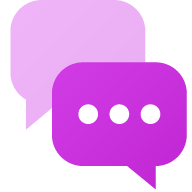
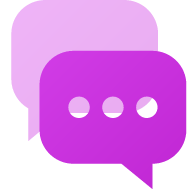
feat(ui): tighten the two IAssistant bubbles

diff --git a/packages/ui/src/family-svg.ts b/packages/ui/src/family-svg.ts
@@ -39,7 +39,7 @@ export const PRODUCT_BADGE_SVG: Readonly<Record<FamilyProduct, string>> = {
     '<svg xmlns="http://www.w3.org/2000/svg" viewBox="0 0 64 64"><svg x="0" y="0" width="64" height="64" viewBox="15 15 34 34"><defs><linearGradient id="g" x1="14" y1="14" x2="50" y2="50" gradientUnits="userSpaceOnUse"><stop offset="0" stop-color="#ffb020"/><stop offset="1" stop-color="#e58309"/></linearGradient></defs><path d="M18.3 34H21.7A2.8 2.8 0 0 1 24.5 36.8V46.2A2.8 2.8 0 0 1 21.7 49H18.3A2.8 2.8 0 0 1 15.5 46.2V36.8A2.8 2.8 0 0 1 18.3 34Z" fill="url(#g)" fill-opacity="0.4" fill-rule="evenodd"/><path d="M30.3 25H33.7A2.8 2.8 0 0 1 36.5 27.8V46.2A2.8 2.8 0 0 1 33.7 49H30.3A2.8 2.8 0 0 1 27.5 46.2V27.8A2.8 2.8 0 0 1 30.3 25Z" fill="url(#g)" fill-opacity="0.7" fill-rule="evenodd"/><path d="M42.3 15H45.7A2.8 2.8 0 0 1 48.5 17.8V46.2A2.8 2.8 0 0 1 45.7 49H42.3A2.8 2.8 0 0 1 39.5 46.2V17.8A2.8 2.8 0 0 1 42.3 15Z" fill="url(#g)" fill-rule="evenodd"/></svg></svg>',
   docs: '<svg xmlns="http://www.w3.org/2000/svg" viewBox="0 0 64 64"><svg x="0" y="0" width="64" height="64" viewBox="14 13 36 36"><defs><linearGradient id="g" x1="14" y1="14" x2="50" y2="50" gradientUnits="userSpaceOnUse"><stop offset="0" stop-color="#0ec1dc"/><stop offset="1" stop-color="#0aa3c1"/></linearGradient></defs><path d="M26 13H46A3 3 0 0 1 49 16V43A3 3 0 0 1 46 46H26A3 3 0 0 1 23 43V16A3 3 0 0 1 26 13Z" fill="url(#g)" fill-opacity="0.22" fill-rule="evenodd"/><path d="M18 18H32V24.5A2.5 2.5 0 0 0 34.5 27H41V46A3 3 0 0 1 38 49H18A3 3 0 0 1 15 46V21A3 3 0 0 1 18 18ZM21.3 33H34.7A1.3 1.3 0 0 1 36 34.3V34.300000000000004A1.3 1.3 0 0 1 34.7 35.6H21.3A1.3 1.3 0 0 1 20 34.300000000000004V34.3A1.3 1.3 0 0 1 21.3 33ZM21.3 39H29.7A1.3 1.3 0 0 1 31 40.3V40.300000000000004A1.3 1.3 0 0 1 29.7 41.6H21.3A1.3 1.3 0 0 1 20 40.300000000000004V40.3A1.3 1.3 0 0 1 21.3 39Z" fill="url(#g)" fill-rule="evenodd"/><path d="M32 18L41 27H34.5A2.5 2.5 0 0 1 32 24.5Z" fill="url(#g)" fill-opacity="0.45" fill-rule="evenodd"/></svg></svg>',
   iassistant:
-    '<svg xmlns="http://www.w3.org/2000/svg" viewBox="0 0 64 64"><svg x="0" y="0" width="64" height="64" viewBox="13 15 37 37"><defs><linearGradient id="g" x1="14" y1="14" x2="50" y2="50" gradientUnits="userSpaceOnUse"><stop offset="0" stop-color="#d946ef"/><stop offset="1" stop-color="#c026d3"/></linearGradient></defs><path d="M21 15H35A6 6 0 0 1 41 21V29A6 6 0 0 1 35 35H24L18 40V34.2A6 6 0 0 1 15 29V21A6 6 0 0 1 21 15Z" fill="url(#g)" fill-opacity="0.4" fill-rule="evenodd"/><path d="M29 27H43A6 6 0 0 1 49 33V41A6 6 0 0 1 43 47V51.5L37.5 47H29A6 6 0 0 1 23 41V33A6 6 0 0 1 29 27ZM28.1 37A1.9 1.9 0 1 0 31.9 37A1.9 1.9 0 1 0 28.1 37ZM34.1 37A1.9 1.9 0 1 0 37.9 37A1.9 1.9 0 1 0 34.1 37ZM40.1 37A1.9 1.9 0 1 0 43.9 37A1.9 1.9 0 1 0 40.1 37Z" fill="url(#g)" fill-rule="evenodd"/></svg></svg>',
+    '<svg xmlns="http://www.w3.org/2000/svg" viewBox="0 0 64 64"><svg x="0" y="0" width="64" height="64" viewBox="16 18 34 34"><defs><linearGradient id="g" x1="14" y1="14" x2="50" y2="50" gradientUnits="userSpaceOnUse"><stop offset="0" stop-color="#d946ef"/><stop offset="1" stop-color="#c026d3"/></linearGradient></defs><path d="M24 18H38A6 6 0 0 1 44 24V32A6 6 0 0 1 38 38H27L21 43V37.2A6 6 0 0 1 18 32V24A6 6 0 0 1 24 18Z" fill="url(#g)" fill-opacity="0.4" fill-rule="evenodd"/><path d="M29 27H43A6 6 0 0 1 49 33V41A6 6 0 0 1 43 47V51.5L37.5 47H29A6 6 0 0 1 23 41V33A6 6 0 0 1 29 27ZM28.1 37A1.9 1.9 0 1 0 31.9 37A1.9 1.9 0 1 0 28.1 37ZM34.1 37A1.9 1.9 0 1 0 37.9 37A1.9 1.9 0 1 0 34.1 37ZM40.1 37A1.9 1.9 0 1 0 43.9 37A1.9 1.9 0 1 0 40.1 37Z" fill="url(#g)" fill-rule="evenodd"/></svg></svg>',
 }
 
 /**
@@ -54,7 +54,7 @@ export const EMAIL_ICON_VERSION: Readonly<Record<FamilyProduct, string>> = {
   status: "90f70c05",
   analytics: "83add9fb",
   docs: "77f11f0b",
-  iassistant: "3b76001f",
+  iassistant: "2b9ed0e0",
 }
 
 /** SVG du H « Double », la marque de la H Collection, sans fond (`family/hcollection-icon(-dark).svg`). */
